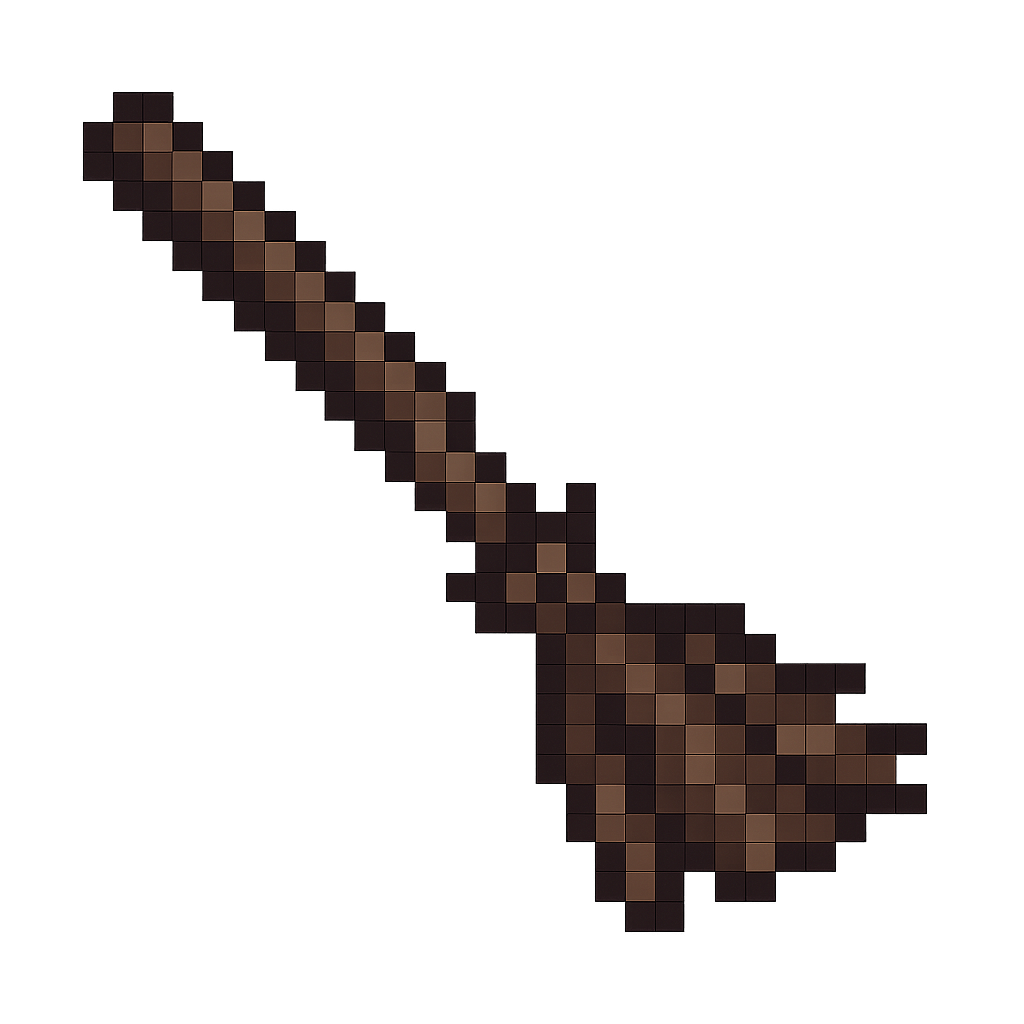
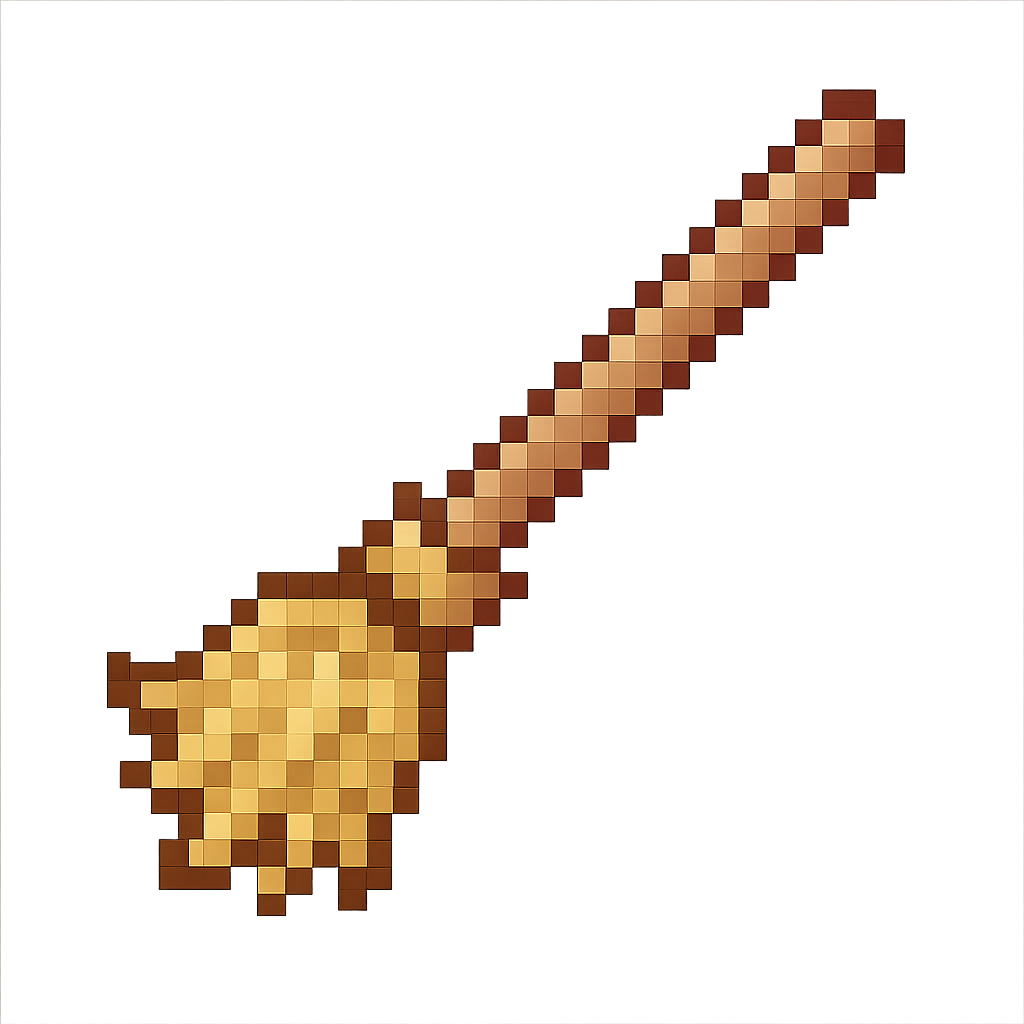
feat: AJout de nouvelles images

Changed region(s): [[0.0625, 0.0625, 0.9062, 0.9375]]

diff --git a/App/Controllers/GameController.java b/App/Controllers/GameController.java
@@ -100,7 +100,7 @@ public class GameController {
         );
         objetsIntro.add(cle);
 
-        Item itemCle = new Item("Clé", "Une clé rouillée qui semble ancienne.", new java.io.File("assets/items/balai.png"), cle);
+        Item itemCle = new Item("Clé", "Une clé rouillée qui semble ancienne.", new java.io.File("assets/items/clef.png"), cle);
         allItems.add(itemCle);
         
         // Door object that changes map when interacted with
@@ -196,7 +196,7 @@ public class GameController {
         
         objetsParMap.add(objetsBibliotheque);
 
-        Item livre = new Item("Livre ancien", "Un livre poussiéreux qui semble très ancien.", new java.io.File("assets/items/balai.png"), bibliothequeEntree);
+        Item livre = new Item("Livre ancien", "Un livre poussiéreux qui semble très ancien.", new java.io.File("assets/items/livre.png"), bibliothequeEntree);
         // Ajouter l'item à la liste globale des items
         allItems.add(livre);
 
@@ -216,7 +216,7 @@ public class GameController {
         );
         objetsBibliotheque.add(tableBibliotheque);
 
-        Item bougie = new Item("Bougie", "Une bougie qui semble encore allumée.", new java.io.File("assets/joueur/droite.png"), tableBibliotheque);
+        Item bougie = new Item("Bougie", "Une bougie qui semble encore allumée.", new java.io.File("assets/items/default.png"), tableBibliotheque);
         allItems.add(bougie);
         
         // Set initial map's walls to Map class

diff --git a/App/Inventaire/InventaireUI.java b/App/Inventaire/InventaireUI.java
@@ -21,7 +21,7 @@ public class InventaireUI extends JPanel {
         this.inventaire = inventaire;
         try {
             // Charger une image par défaut pour les items sans image
-            defaultImage = ImageIO.read(new java.io.File("assets/joueur/droite.png"));
+            defaultImage = ImageIO.read(new java.io.File("assets/assets/default.png"));
         } catch (IOException e) {
             System.out.println("Erreur lors du chargement de l'image par défaut : " + e.getMessage());
         }

diff --git a/App/Main.java b/App/Main.java
@@ -80,11 +80,6 @@ public class Main {
 
     // fonction principale
     public static void main(String[] args) {
-        // Créer un dossier "objets" s'il n'existe pas
-        File objetsDir = new File("assets/objets");
-        if (!objetsDir.exists()) {
-            objetsDir.mkdirs();
-        }
         
         // Exécuter l'initialisation de la fenêtre dans l'EDT (Event Dispatch Thread)
         SwingUtilities.invokeLater(() -> {
